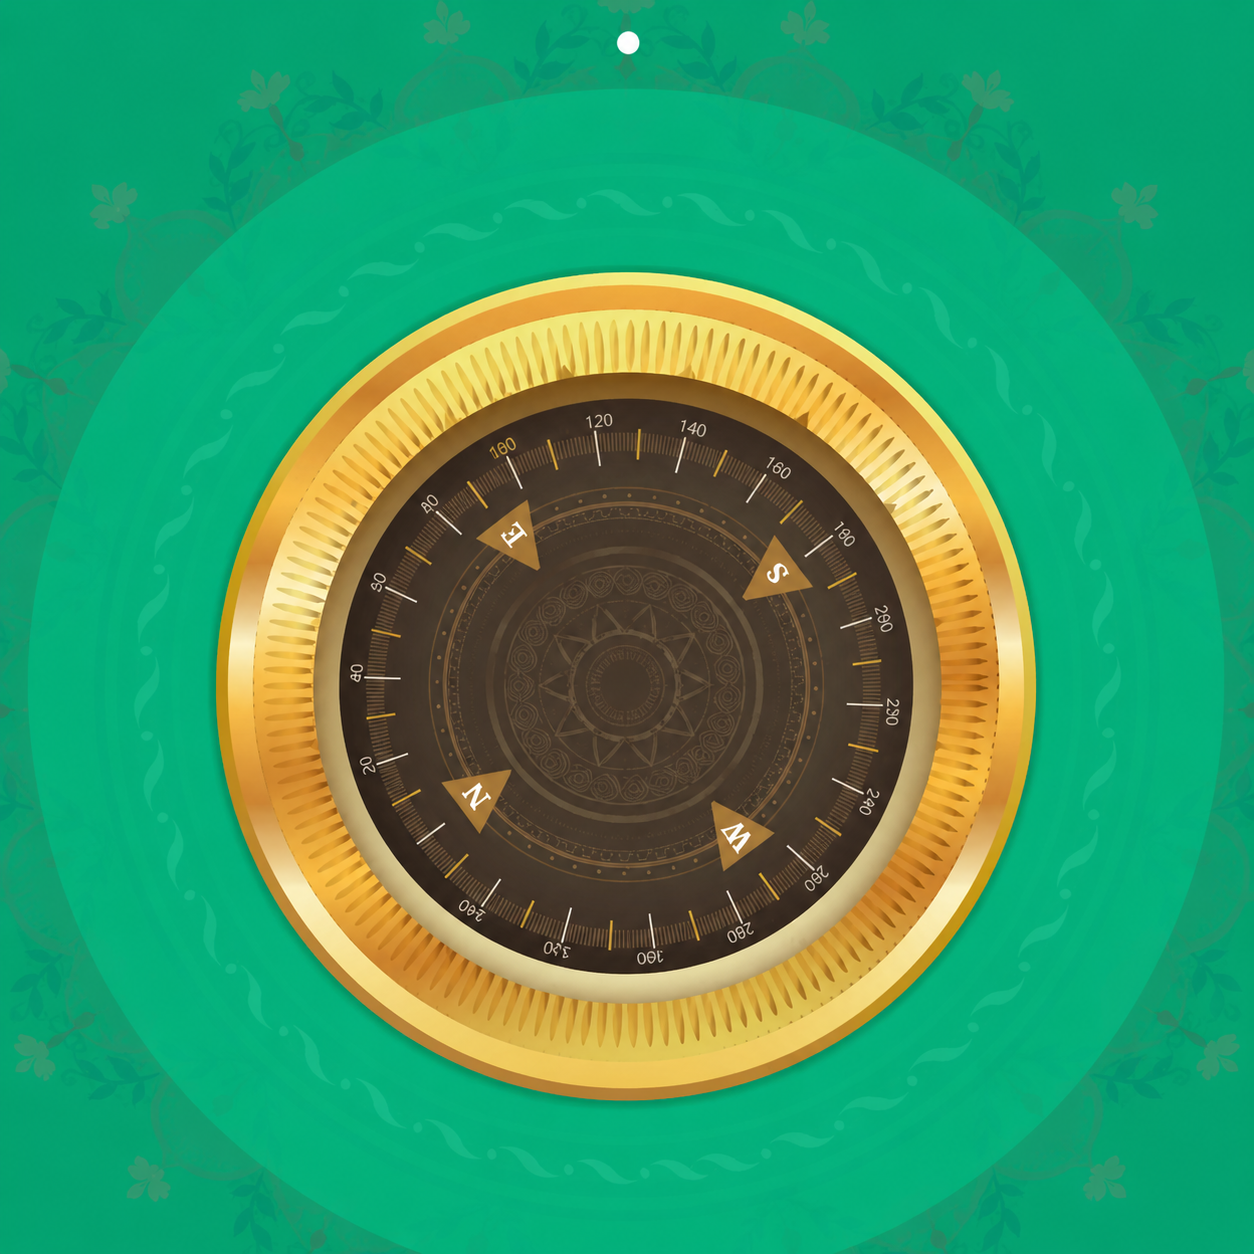
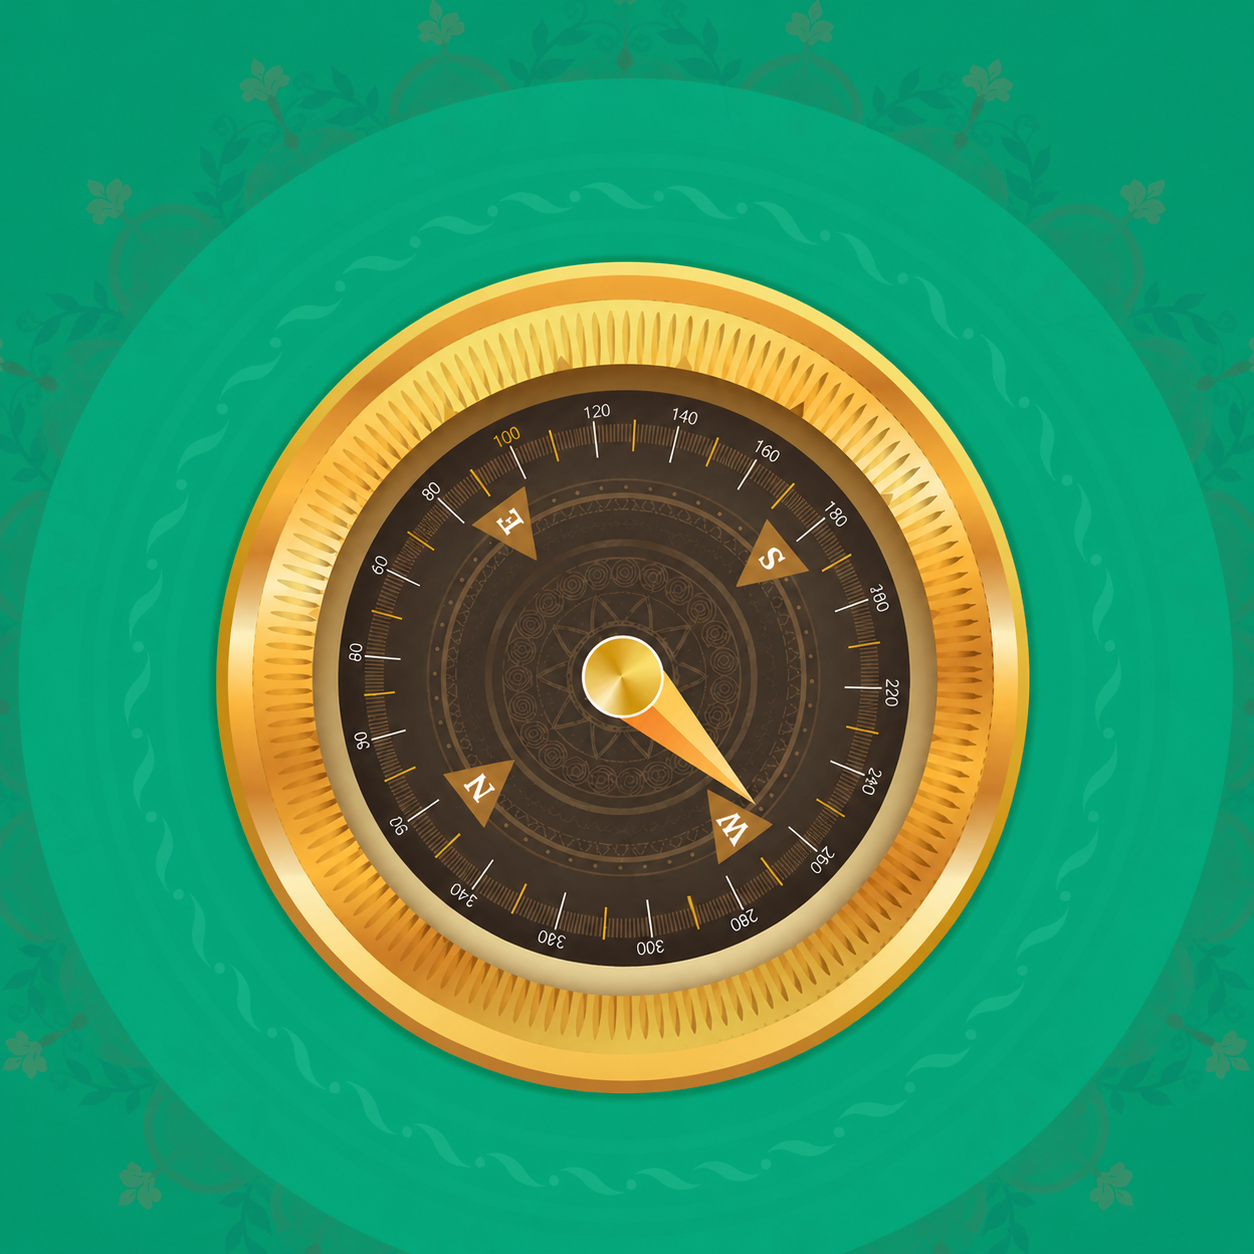
add title in home page

diff --git a/QuranApp/wwwroot/app.css b/QuranApp/wwwroot/app.css
@@ -166,3 +166,16 @@ h1:focus {
         font-size: 20px;
         margin-left: 10px;
     }
+@keyframes blink {
+    0% {
+        opacity: 1;
+    }
+
+    50% {
+        opacity: 0;
+    }
+
+    100% {
+        opacity: 1;
+    }
+}
